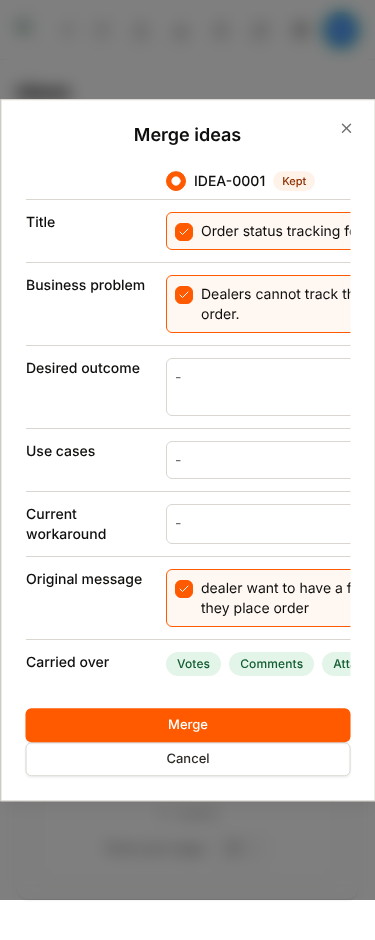
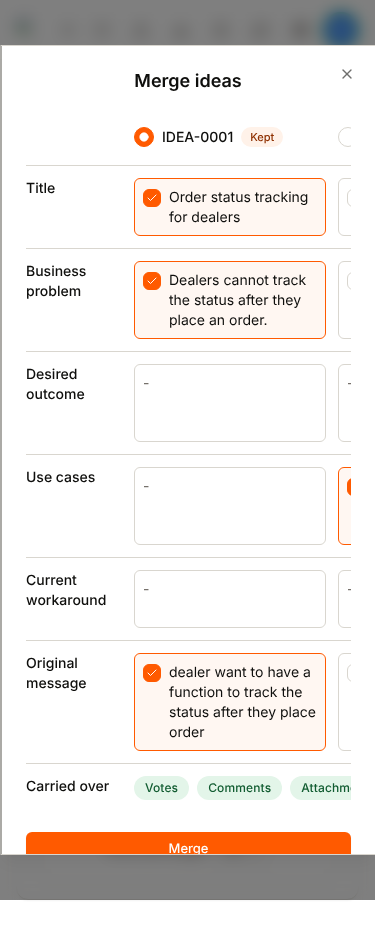
fix(ideation-ui): readable merge columns at 375px
Fixed-width cells on mobile (the next column peeks in to show the grid
scrolls); the combine preview no longer widens the grid. Refreshed browser
evidence.

Claude-Session: https://claude.ai/code/session_0148HBhbP88kZbAMvmePRFxt

diff --git a/service_frontend/app/(protected)/ideation/ideas/merge-ideas-dialog.tsx b/service_frontend/app/(protected)/ideation/ideas/merge-ideas-dialog.tsx
@@ -39,7 +39,7 @@ export interface MergeIdeasDialogProps {
 }
 
 const LABEL_CELL = 'sticky left-0 z-(--z-sticky-content) w-24 shrink-0 bg-background pr-2 text-sm font-medium sm:w-40';
-const IDEA_CELL = 'min-w-48 flex-1 sm:min-w-56';
+const IDEA_CELL = 'w-48 shrink-0 sm:w-auto sm:min-w-56 sm:flex-1 sm:shrink';
 
 function MergeValueView({ value }: { value: MergeValue }) {
   if (value === null) return <span className="text-muted-foreground">-</span>;
@@ -183,7 +183,7 @@ export function MergeIdeasDialog({ ideas, initialKeptId, onClose, onMerge }: Mer
                     {combined !== null && (
                       <div className="flex gap-3">
                         <div className={LABEL_CELL} />
-                        <div className="flex-1 rounded-md border border-dashed border-border bg-muted/50 p-2 text-xs">
+                        <div className="w-0 min-w-0 flex-1 rounded-md border border-dashed border-border bg-muted/50 p-2 text-xs">
                           <p className="mb-1 font-medium text-muted-foreground">Result</p>
                           <MergeValueView value={combined} />
                         </div>
